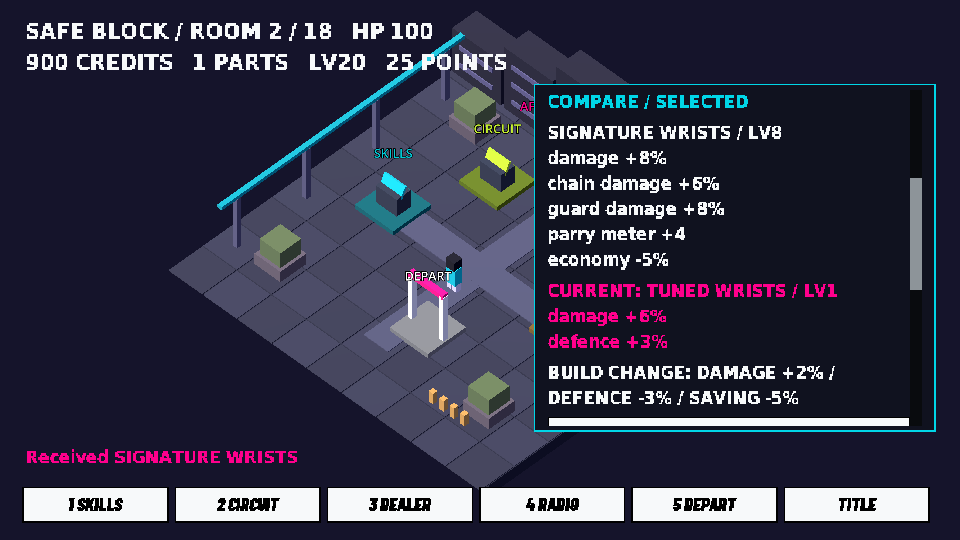
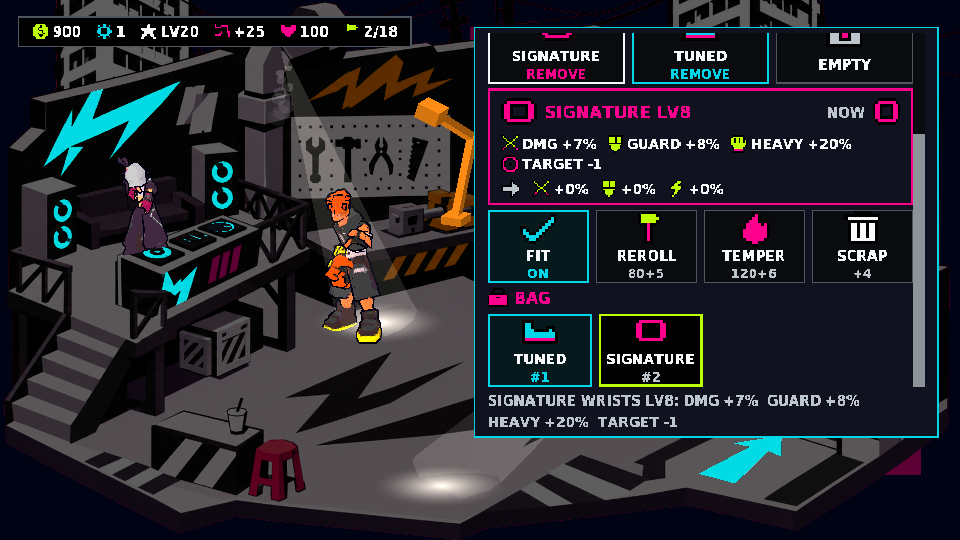
Hub UI: picture-first DEALER, SHOP and CIRCUIT pages
DEALER and SHOP were one duplicated text page; split into draw (DEALER) and
fit/upgrade (SHOP) icon cards. CIRCUIT detail panel becomes icon stat cards
with one-line description. Tests find buttons by act meta.

Claude-Session: https://claude.ai/code/session_018tqqU5DUAvsZ5q4MmQ8qrM

diff --git a/docs/HUB_PICTURE_UI.zh-TW.md b/docs/HUB_PICTURE_UI.zh-TW.md
@@ -29,3 +29,21 @@
 通過（Godot 4.6.3，xvfb／llvmpipe）：`verify_campaign_complete_native` 23/23、`verify_city_expansion_native` 22/22、`verify_city_campaign` 50/50、`verify_nightshift_hub` 全部 true。兩個原生測試原本用英文按鈕字或地圖按鈕位置找控制項，已改用 `meta act`。
 
 未驗證：滑鼠／手柄實手感、Mac 與目標 GPU、真人讀起來是否順；圖示由我自己用文字點陣畫，是否符合 Alan 想像待他看過再改。沒有使用 ChatGPT 圖像生成（雲端環境沒有可用的圖像生成工具），改以程式內像素圖示處理。
+
+## 第二輪（DEALER／SHOP／CIRCUIT）
+
+2026-11-13，Alan：「DEALER／SHOP／CIRCUIT 頁仲係文字版，改圖像化」。沿用同一套 12×12 圖示和卡片，一樣沒有改規則、存檔或戰鬥數值。
+
+| 頁面 | 以前 | 現在 |
+|---|---|---|
+| DEALER | 和 SHOP 是同一張長文字頁（重複） | 只負責抽：核心卡（DRAW CORE／READY）、三個部位卡（手腕／鞋底／腰帶）、一個 DRAW 加價錢、保底（RARE 十格＋SIGN 能量條）、剛抽到的 NEW 卡 |
+| SHOP | 同上，外加幾十個長按鈕 | 只負責用：HEAL 卡、背包／倉庫數量、英雄三格裝備（點擊卸下）、比較卡（圖示＋屬性小標＋傷害／防禦／節能差值）、FIT／REROLL／TEMPER／SCRAP 四張卡（顯示價錢）、背包 4×2 格＋翻頁箭頭 |
+| CIRCUIT | 右邊約 10 行文字＋三個長按鈕 | 上方圖示列（英雄、等級、點數、關鍵節點）、節點圖示＋名字、一個屬性小標、傷害／防禦／節能三格（加上去後的值）、一個 CONNECT＋點數、重置／關閉圖示鈕；選中節點的一句說明放在底部；關鍵節點與起點在圖上畫圖示 |
+
+- 裝備稀有度顏色：白＝SALVAGED、青＝TUNED、綠＝RARE、粉＝SIGNATURE。屬性共用 `hub_widgets.gd` 的 `STAT_ICON`／`STAT_SHORT`。
+- 新增圖示：back、hammer、flame、trash；dice 改成看得見點數。
+- 每個按鈕帶 `meta act`：`core_draw`、`slot:n`、`draw_slot`、`heal`、`inspect:id`、`equip:id`、`recalibrate:id`、`temper:id`、`recycle:id`、`unequip:n`、`items_prev`／`items_next`、`connect`、`reset`。
+- 流程變動：抽到的裝備要去 SHOP 檢視和裝備（DEALER 的 NEW 卡一按就跳去）；以前兩頁內容一模一樣。
+- 測試：`verify_campaign_complete_native` 23/23、`verify_city_expansion_native` 22/22、`verify_city_campaign` 50/50、`verify_nightshift_hub`／`verify_nightshift_reference` 全 true。測試改用 `act` 找按鈕，工坊／比較測試改到 SHOP 頁。
+- 截圖：`docs/evidence/hub-picture-ui/deal_gear.png`、`shop_gear.png`、`shop_gear_bag.png`、`circuit.png`、`circuit_keystone.png`（`capture_hub_ui.gd --rich` 會放幾件測試裝備）。
+- 未驗證：滑鼠／手柄實手感、真機 GPU、圖示是否合 Alan 想像。
